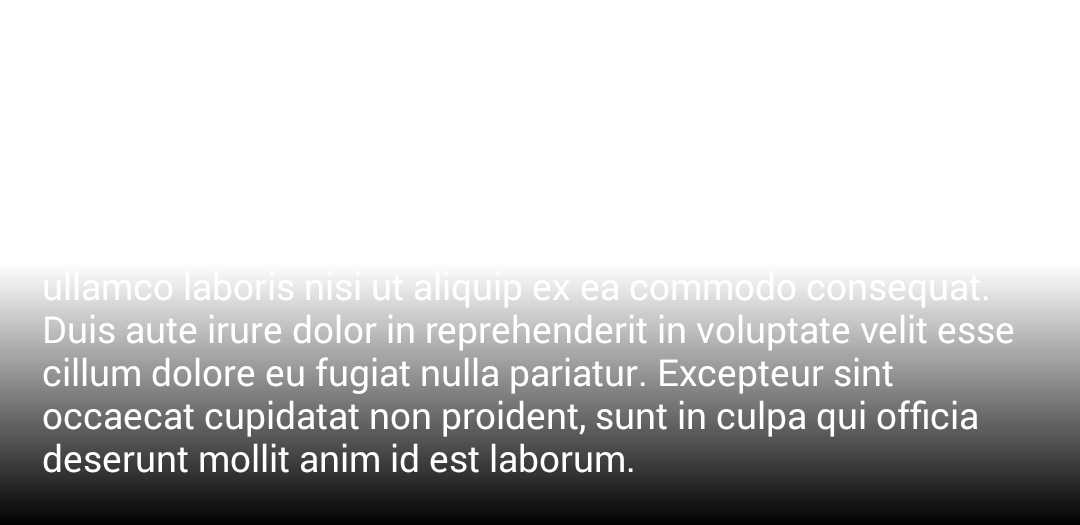
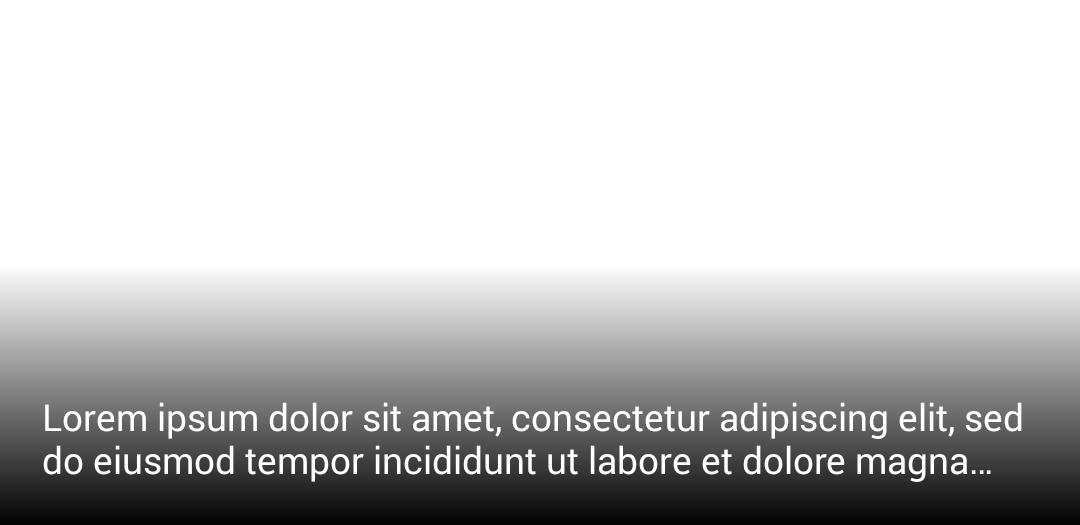
* Tests sobre item de la lista corrigiendo la superposicion del Badge sobre textos largos

Changed region(s): [[0.0306, 0.6095, 0.9472, 0.9143], [0.0306, 0.5486, 0.9167, 0.579]]

diff --git a/app/src/androidTest/java/com/karumi/screenshot/SuperHeroViewHolderTest.java b/app/src/androidTest/java/com/karumi/screenshot/SuperHeroViewHolderTest.java
@@ -57,6 +57,19 @@ public class SuperHeroViewHolderTest extends ScreenshotTest {
     compareScreenshot(holder, R.dimen.super_hero_row_height);
   }
 
+  @Test public void showAvengerWithLongName() {
+    SuperHero superHero = givenAvengerWithALongName();
+    SuperHeroViewHolder holder = givenASuperHeroViewHolder();
+
+    holder.render(superHero);
+
+    compareScreenshot(holder, R.dimen.super_hero_row_height);
+  }
+
+  private SuperHero givenAvengerWithALongName() {
+    return givenASuperHeroWithALongName(true);
+  }
+
   private SuperHeroViewHolder givenASuperHeroViewHolder() {
     Context context = getInstrumentation().getTargetContext();
     LayoutInflater inflater = LayoutInflater.from(context);
@@ -65,6 +78,9 @@ public class SuperHeroViewHolderTest extends ScreenshotTest {
   }
 
   private SuperHero givenASuperHeroWithALongDescription() {
+    return givenASuperHeroWithALongDescription(false);
+  }
+  private SuperHero givenASuperHeroWithALongDescription(boolean isAvenger) {
     String superHeroName = "Super Hero Name";
     String superHeroDescription =
         "Lorem ipsum dolor sit amet, consectetur adipiscing elit, sed do eiusmod tempor incididunt "
@@ -73,11 +89,14 @@ public class SuperHeroViewHolderTest extends ScreenshotTest {
             + "reprehenderit in voluptate velit esse cillum dolore eu fugiat nulla pariatur. "
             + "Excepteur sint occaecat cupidatat non proident, sunt in culpa qui officia deserunt "
             + "mollit anim id est laborum.";
-    boolean isAvenger = false;
+
     return givenASuperHero(superHeroName, superHeroDescription, isAvenger);
   }
 
   private SuperHero givenASuperHeroWithALongName() {
+    return givenASuperHeroWithALongName(false);
+  }
+  private SuperHero givenASuperHeroWithALongName(boolean isAvenger) {
     String superHeroName =
         "Lorem ipsum dolor sit amet, consectetur adipiscing elit, sed do eiusmod tempor incididunt "
             + "ut labore et dolore magna aliqua. Ut enim ad minim veniam, quis nostrud exercitation "
@@ -86,7 +105,7 @@ public class SuperHeroViewHolderTest extends ScreenshotTest {
             + "Excepteur sint occaecat cupidatat non proident, sunt in culpa qui officia deserunt "
             + "mollit anim id est laborum.";
     String superHeroDescription = "Description Super Hero";
-    boolean isAvenger = false;
+
     return givenASuperHero(superHeroName, superHeroDescription, isAvenger);
   }
 
